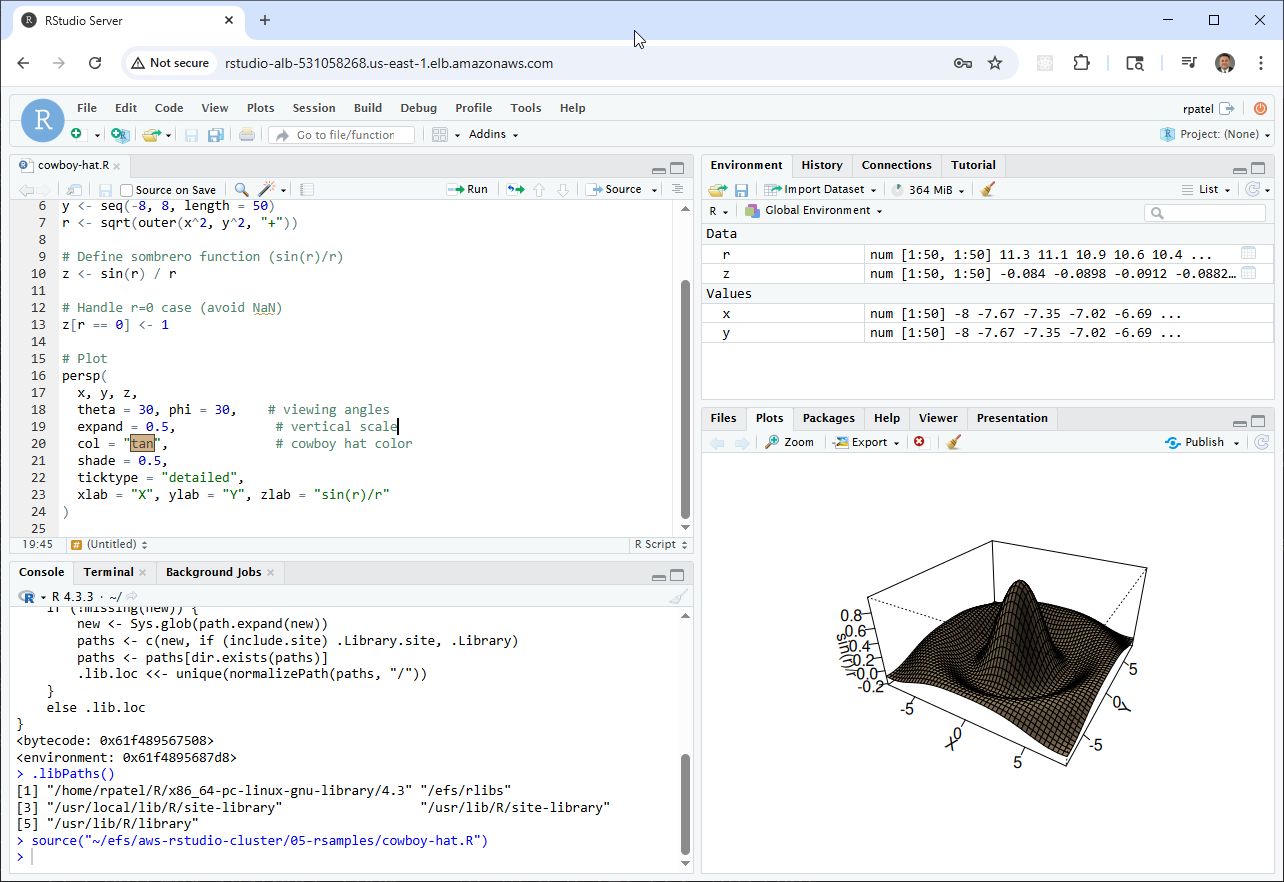
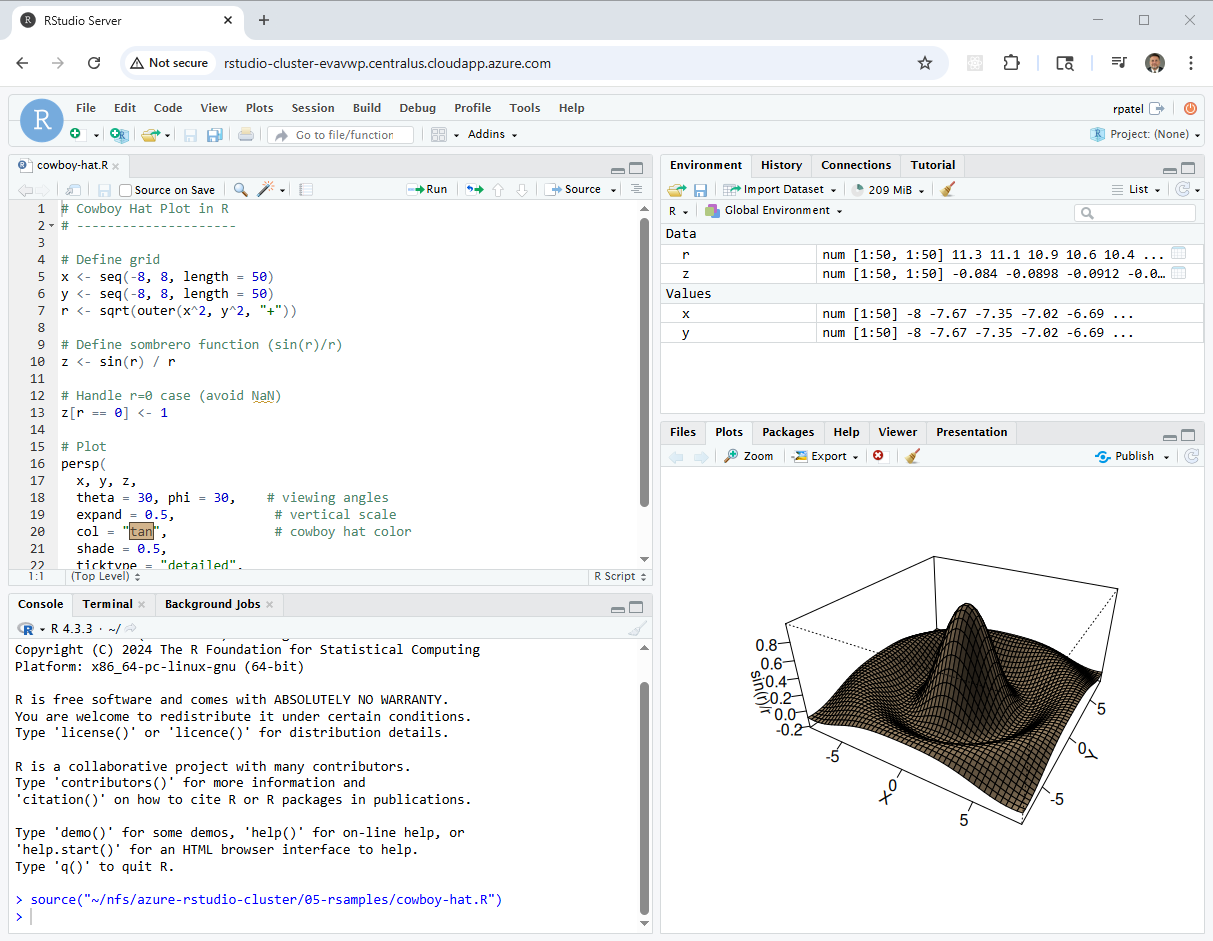
work on documentation

diff --git a/README.md b/README.md
@@ -174,7 +174,7 @@ Follow these steps to provision a new user in the Active Directory domain and va
 ![Linux](linux.png)
 
 9. **Validate RStudio Access**  
-   - Open the RStudio cluster’s Application Gateway's URL in a browser (e.g., `https://rstudio-alb-xxxxxx.us-east-1.elb.amazonaws.com`).  
+   - Open the RStudio cluster’s Application Gateway's URL in a browser (e.g., `http://rstudio-cluster-xxxxx.centralus.cloudapp.azure.com/`).  
    - Log in with the new AD credentials.  
 
 10. **Verify Permissions**  
